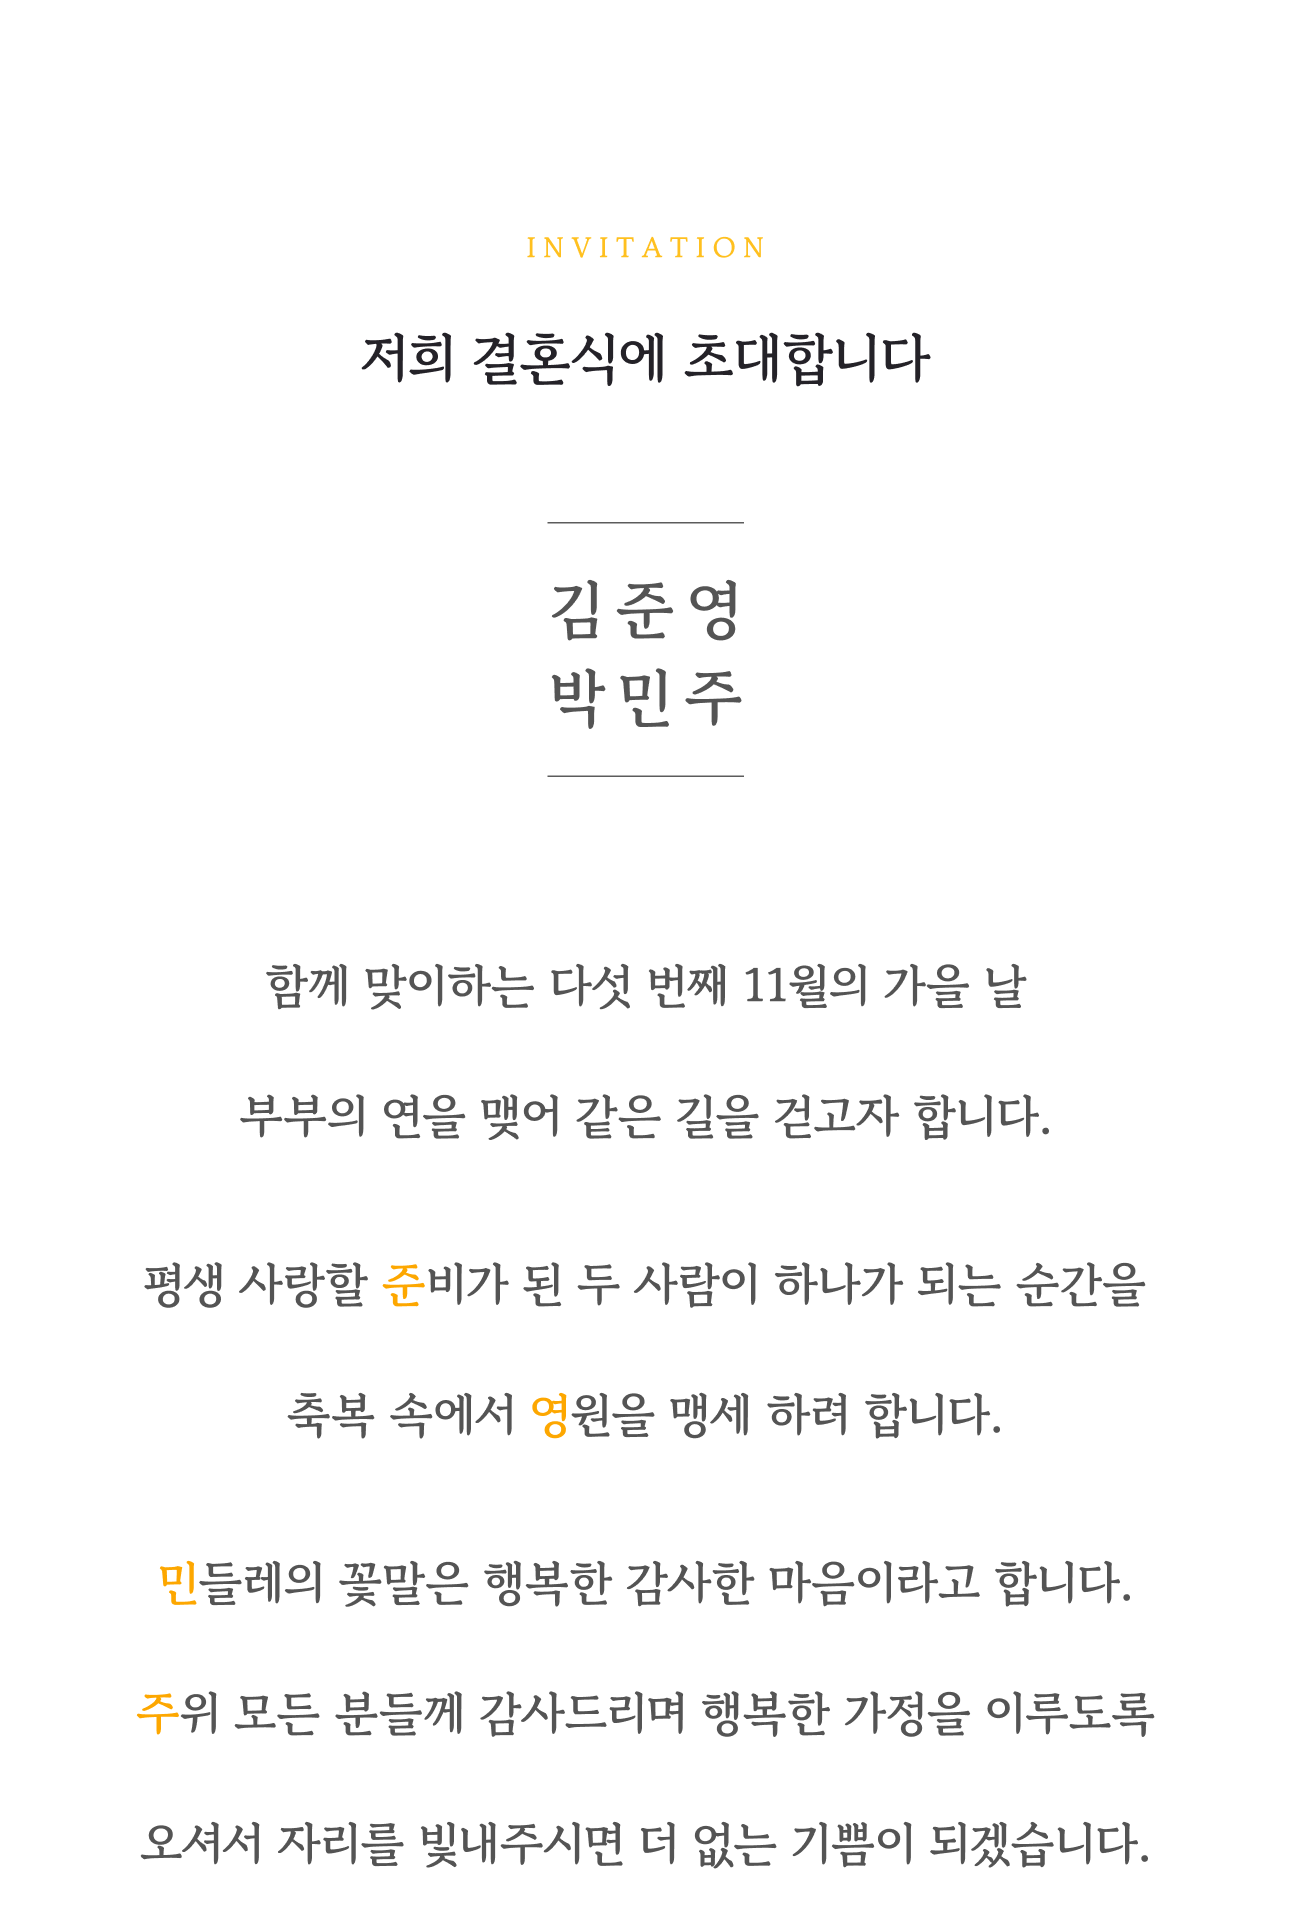
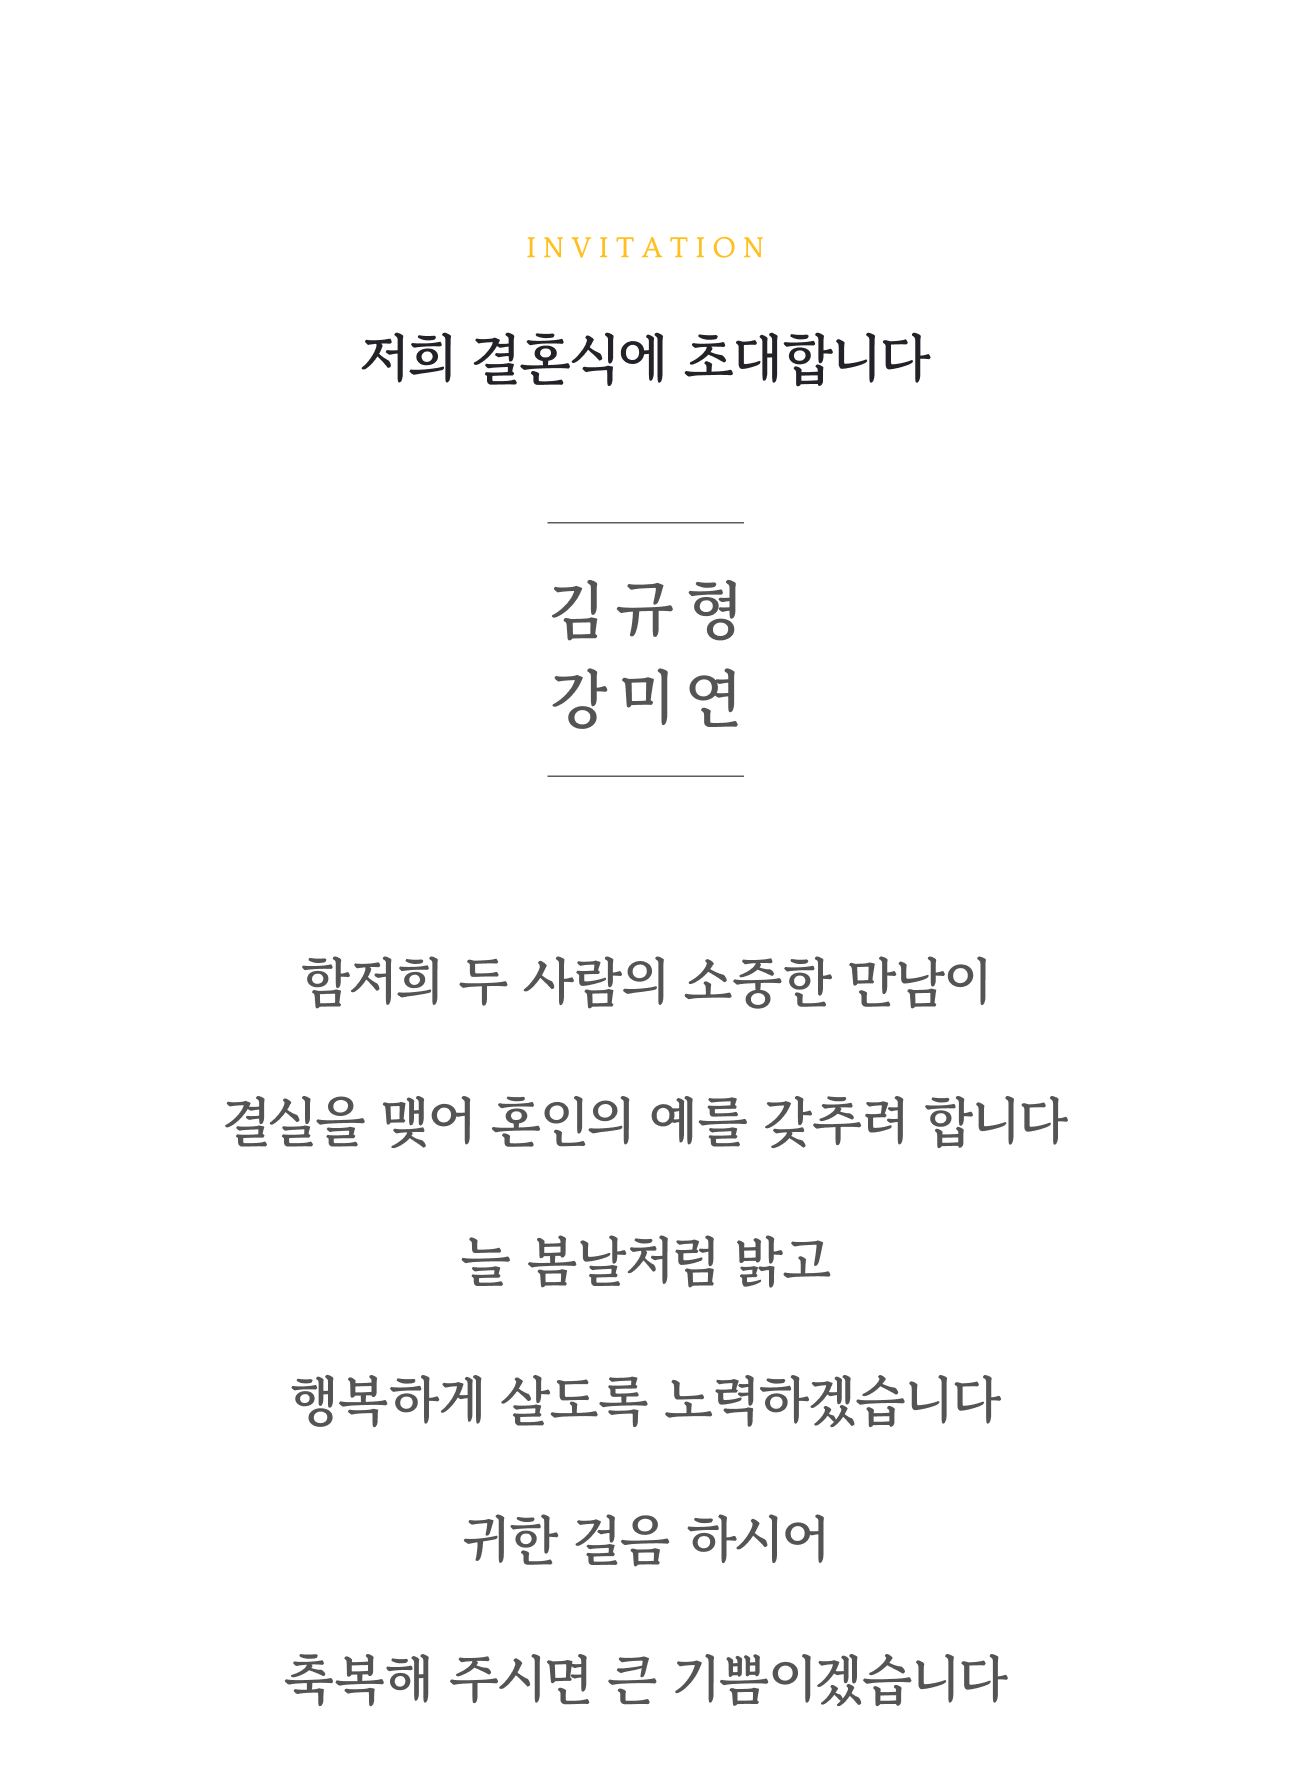
1차구성

diff --git a/index.html b/index.html
@@ -5,19 +5,19 @@
   <meta charset="utf-8" />
   <link rel="icon" href="/img/heart_icon.png" />
   <meta name="viewport" content="width=device-width" />
-  <title>김준영 ♥ 박민주의 결혼식에 초대합니다.</title>
+  <title>김규형 ♥ 강미연의 결혼식에 초대합니다.</title>
   <meta http-equiv="X-UA-Compatible" content="IE=edge, chrome=1" />
   <meta name="viewport"
     content="width=device-width,initial-scale=1.0,maximum-scale=1.0,minimum-scale=1.0,user-scalable=no,target-densitydpi=medium-dpi" />
   <meta name="robots" content="index,follow" />
   <meta name="googlebot" content="index,follow" />
   <meta name="description" content="결혼식에 초대합니다♡" />
-  <link rel="canonical" href="https://mo15.luvle.co.kr" />
-  <meta property="og:url" content="https://mo15.luvle.co.kr" />
-  <meta property="og:title" content="김준영 ♥ 박민주의 결혼식에 초대합니다." />
+  <link rel="canonical" href="https://mo17.luvle.co.kr" />
+  <meta property="og:url" content="https://mo17.luvle.co.kr" />
+  <meta property="og:title" content="김규형 ♥ 강미연의 결혼식에 초대합니다." />
   <meta property="og:description" content="결혼식에 초대합니다♡" />
   <meta property="og:image" content="https://i.imgur.com/tYuIfbQ.png" />
-  <meta property="og:site_name" content="김준영 ♥ 박민주의 결혼식에 초대합니다." />
+  <meta property="og:site_name" content="김규형 ♥ 강미연의 결혼식에 초대합니다." />
   <script src="https://cdn.tailwindcss.com"></script>
   <link rel="stylesheet" type="text/css" href="style.css" />
   <link href="https://webfontworld.github.io/yangheeryu/GowunBatang.css" rel="stylesheet" />
@@ -91,7 +91,7 @@
             <div id="weddingDesc">
               <div style="line-height: 40px;">
                 <p id="parentInfo">
-                  <span style="font-size: large">이인규 · 진기자</span>
+                  <span style="font-size: large">김환 · 이영화</span>
                   <span>
                     <span>의</span>
                     <span style="
@@ -100,7 +100,7 @@
                           display: inline-block;
                         ">차남</span>
                   </span>
-                  <span style="font-size: large">김준영</span>
+                  <span style="font-size: large">김규형</span>
                   <span style="
                         font-size: large;
                         display: inline-block;
@@ -121,7 +121,7 @@
                   </script>
                 </p>
                 <p id="parentInfo">
-                  <span style="font-size: large">박상현 · 유미자</span>
+                  <span style="font-size: large">강봉중 · 유석란</span>
                   <span>
                     <span>의</span>
                     <span style="
@@ -130,7 +130,7 @@
                           display: inline-block;
                         ">딸</span>
                   </span>
-                  <span style="font-size: large">박민주</span>
+                  <span style="font-size: large">강미연</span>
                   <span style="
                         font-size: large;
                         display: inline-block;
@@ -257,21 +257,21 @@
                     text-align: center;
                     line-height: 1.5rem;
                   ">
-                <p>경기 수원시 영통구 봉영로 1612</p>
+                <p>부산시 부산진구 신천대로252</p>
                 <p style="font-weight: 600; color: #000000">
-                  sy컨벤션
+                  W스퀘어웨딩 더갤럭시홀
                 </p>
               </div>
               <div class="weddinghall-call-info">
                 <button id="weddingHallCallButton">
                   <img src="img/call.png" alt="전화" style="width: 10px; height: 10px" />
-                  <p id="weddingHallCallP">031 - 206 - 6660</p>
+                  <p id="weddingHallCallP">051 - 711 - 0177</p>
                 </button>
                 <script>
                   document
                     .getElementById("weddingHallCallButton")
                     .addEventListener("click", function () {
-                      var phoneNumber = "031-206-6660";
+                      var phoneNumber = "051-711-0177";
                       window.location.href = "tel:" + phoneNumber;
                     });
                 </script>
@@ -288,8 +288,8 @@
             var mapContainer = document.getElementById("map"), // 지도를 표시할 div
               mapOption = {
                 center: new kakao.maps.LatLng(
-                  37.254526983677714,
-                  127.07494298769757
+                  35.164318571897994,
+                  129.05060744647426
                 ), // 지도의 중심좌표
                 level: 3, // 지도의 확대 레벨
               };
@@ -309,8 +309,8 @@
 
             // 마커가 표시될 위치입니다
             var markerPosition = new kakao.maps.LatLng(
-              37.254526983677714,
-              127.07494298769757
+              35.164318571897994,
+              129.05060744647426
             );
 
             // 마커를 생성합니다
@@ -327,7 +327,7 @@
         <!-- map 길찾기 -->
         <div class="animate-on-scroll" id="MapIconDiv" style="background-color: #FFD177;">
           <div>
-            <a class="maplink" href="https://kko.to/O2hWer9dhL">
+            <a class="maplink" href="https://kko.to/9H8xFtrNX_">
               <div>
                 <button id="kakaoMapButton" type="button">
                   <!-- <img
@@ -386,7 +386,7 @@
             </button>
             <div class="panel">
               <ul>
-                <li><strong>신랑 김준영 : </strong>농협은행 3561480501343</li>
+                <li><strong>신랑 김규형 : </strong>농협은행 3561480501343</li>
                 
               </ul>
             </div>
@@ -396,7 +396,7 @@
             </button>
             <div class="panel">
               <ul>
-                <li><strong>신부 박민주 : </strong>카카오뱅크 3333021251920</li>
+                <li><strong>신부 강미연 : </strong>카카오뱅크 3333021251920</li>
         
 
 

diff --git a/gallery.js b/gallery.js
@@ -46,22 +46,22 @@ window.onload = () => {
     Kakao.Share.sendDefault({
       objectType: "feed",
       content: {
-        title: "김준영 ♥ 박민주의 모바일 청첩장",
+        title: "김규형 ♥ 강미연의 모바일 청첩장",
         description: "결혼식에 초대합니다♡",
         imageUrl: "https://i.imgur.com/tYuIfbQ.png",
         imageWidth: 1200,
         imageHeight: 630,
         link: {
-          mobileWebUrl: "https://15.luvle.co.kr",
-          webUrl: "https://mo15.luvle.co.kr",
+          mobileWebUrl: "https://mo17.luvle.co.kr",
+          webUrl: "https://mo17.luvle.co.kr",
         },
       },
       buttons: [
         {
           title: "자세히 보기",
           link: {
-            mobileWebUrl: "https://mo15.luvle.co.kr",
-            webUrl: "https://mo15.luvle.co.kr",
+            mobileWebUrl: "https://mo17.luvle.co.kr",
+            webUrl: "https://mo17.luvle.co.kr",
           },
         },
       ],

diff --git a/countdown.js b/countdown.js
@@ -1,7 +1,7 @@
 document.addEventListener("DOMContentLoaded", function () {
   function updateCountdown() {
     // 결혼 날짜 설정 (년, 월(0부터 시작), 일, 시, 분)
-    const weddingDate = new Date(2024, 10, 16, 11, 0); // 예시: 2024년 10월 12일
+    const weddingDate = new Date(2024, 10, 30, 14, 0); // 예시: 2024년 10월 12일
 
     const currentDate = new Date();
     const timeDifference = weddingDate - currentDate;
